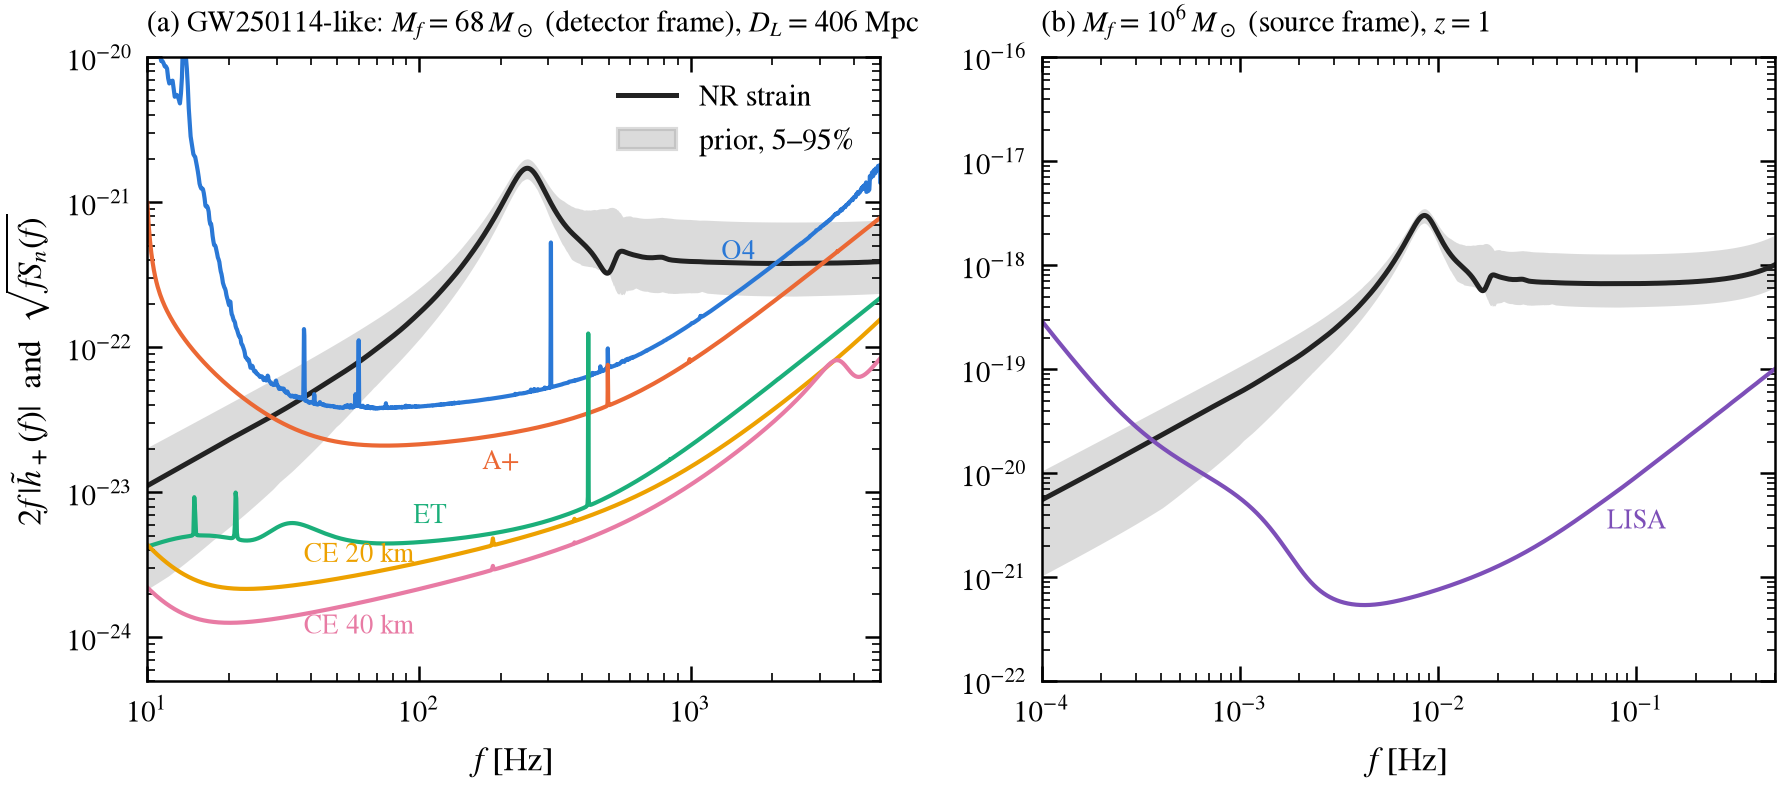
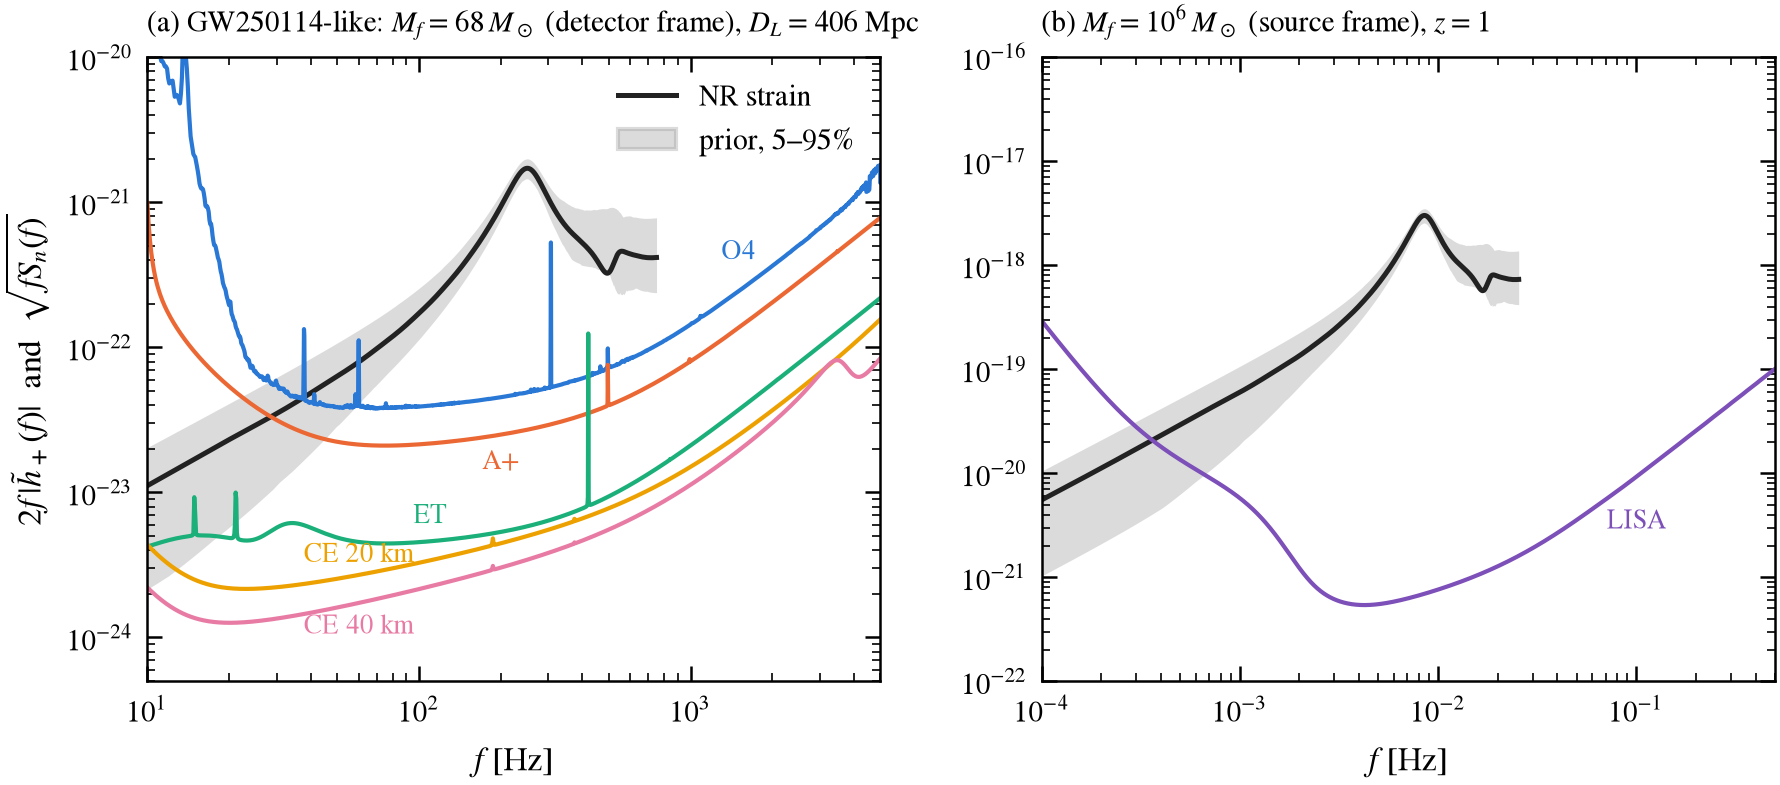
measuring-qnms: F2 signal curves stop at 3 f_220 (window edge above)

Changed region(s): [[0.8343, 0.3057, 1.0, 0.3975], [0.3708, 0.2752, 0.4944, 0.3975]]

diff --git a/projects/measuring-qnms/results.md b/projects/measuring-qnms/results.md
@@ -93,14 +93,14 @@ With the current amplitude prior (2026-09-27) the reference counts are 5 (19), 9
 
 <figure>
 <a href="figs/sensitivity_overlay.png"><img src="figs/sensitivity_overlay.png" alt="Characteristic strain of the real SXS:BBH:0180 ringdown and of QNEF prior draws against O4, A+, ET and Cosmic Explorer (left) and against LISA for a million-solar-mass remnant at redshift 1 (right), from 10 M after the peak"></a>
-<figcaption>Characteristic strain $2f\,|\tilde h_+(f)|$ of the ringdown against the noise amplitude $\sqrt{f S_n(f)}$ (Moore, Cole &amp; Berry convention: both dimensionless, and $\rho^2 = \int (2f|\tilde h|/\sqrt{fS_n})^2\,d\ln f$), from $t_0 = 10\,M_f$. Black: the SXS:BBH:0180 strain (equal mass, non-spinning, $\chi_f = 0.686$; all harmonics $\ell \le 8$, $m \ne 0$; $\iota = 0.78$). Grey: 5–95% band of 200 draws of every mode ($\ell \le 8$, $n \le 7$) from the PN + QNEF prior conditioned on the fitted 220. (a) GW250114 scaling: $M_f^{\rm det} = 68.1\,M_\odot$, $D_L = 406$ Mpc. (b) $M_f = 10^6\,M_\odot$ at $z = 1$, one LISA channel. $h_+$ for $F_+ = 1$; ET and LISA (60° interferometers) at their best orientation. Optimal single-detector SNR of the NR strain from $10\,M$: O4 22, A+ 41, ET 187, CE 20 km 223, CE 40 km 326, LISA 2789.</figcaption>
+<figcaption>Characteristic strain $2f\,|\tilde h_+(f)|$ of the ringdown against the noise amplitude $\sqrt{f S_n(f)}$ (Moore, Cole &amp; Berry convention: both dimensionless, and $\rho^2 = \int (2f|\tilde h|/\sqrt{fS_n})^2\,d\ln f$), from $t_0 = 10\,M_f$. Black: the SXS:BBH:0180 strain (equal mass, non-spinning, $\chi_f = 0.686$; all harmonics $\ell \le 8$, $m \ne 0$; $\iota = 0.78$). Grey: 5–95% band of 200 draws of every mode ($\ell \le 8$, $n \le 7$) from the PN + QNEF prior conditioned on the fitted 220. (a) GW250114 scaling: $M_f^{\rm det} = 68.1\,M_\odot$, $D_L = 406$ Mpc. (b) $M_f = 10^6\,M_\odot$ at $z = 1$, one LISA channel. $h_+$ for $F_+ = 1$; ET and LISA (60° interferometers) at their best orientation. The signal curves stop at $3f_{220}$ (750 Hz; 0.026 Hz for LISA): above it the spectrum is the window edge, not ringdown content. Optimal single-detector SNR of the NR strain from $10\,M$ (full band): O4 22, A+ 41, ET 187, CE 20 km 223, CE 40 km 326, LISA 2789.</figcaption>
 </figure>
 
 **Takeaway.**
 
 - The prior band brackets the real strain.
 - Optimal SNRs from $10\,M$: O4 22, A+ 41, ET 187, CE 20 km 223, CE 40 km 326; LISA about 2800 per channel.
-- **Above about 500 Hz the strain spectrum is flat.** This is the sharp start of the analysis window, not ringdown content or NR noise: a signal that jumps to $h(t_0)$ has $|\tilde h| \to |h(t_0)|/2\pi f$, so $2f|\tilde h| \to |h(t_0)|/\pi$. The plateau matches $|h_+(t_0)|/\pi$ to 2%, it appears in the analytic prior draws too, and it drops 20-fold when the start is tapered over $2\,M$. It carries at most 1% of $\rho^2$ in any detector.
+- **The signal curves stop at $3f_{220}$.** Beyond it the spectrum of a signal switched on at $t_0$ is flat, $2f|\tilde h| \to |h(t_0)|/\pi$: the sharp start of the window, not ringdown content or NR noise. That plateau matches $|h_+(t_0)|/\pi$ to 2%, shows up in the analytic prior draws too, and drops 20-fold when the start is tapered over $2\,M$. The spectrum still falls steeply at $2f_{220}$ and is flat by $3f_{220}$. Above the cut lies 0.8–1.2% of $\rho^2$ in every detector.
 - *Correction (2026-09-28):* earlier versions of this plot drew $2\sqrt f\,|\tilde h_+|$ against $\sqrt{fS_n}$, which put the noise curves off by $\sqrt f$ relative to the signal. The SNRs were computed correctly and do not change.
 - From the peak, O4 gets 35, in line with LVK's network value of about 40 post-merger.
 

diff --git a/projects/measuring-qnms/log.md b/projects/measuring-qnms/log.md
@@ -1,5 +1,9 @@
 Newest first. One entry per working session: what was done, what was learned, and what went wrong.
 
+### 2026-09-28 — F2 signal curves cut at $3f_{220}$
+
+- F2 now stops the NR strain and the prior band at $3f_{220}$ (750 Hz; 0.026 Hz for LISA), where the window-edge plateau takes over. The noise curves keep the full range, and the SNRs are unchanged (0.8–1.2% of $\rho^2$ lies above the cut).
+
 ### 2026-09-28 — the flat tail in F2 is the window start
 
 - The flat high-frequency tail of the corrected F2 comes from starting the signal abruptly at $10\,M$: its level matches $|h_+(t_0)|/\pi$ to 2%, the pure-QNM prior draws show it too (so it is not NR resolution noise), and a 2 M taper removes it. It carries at most 1% of $\rho^2$ (O4 1%, ET and CE below 1%). The entry below overstated its weight for ET and CE.
